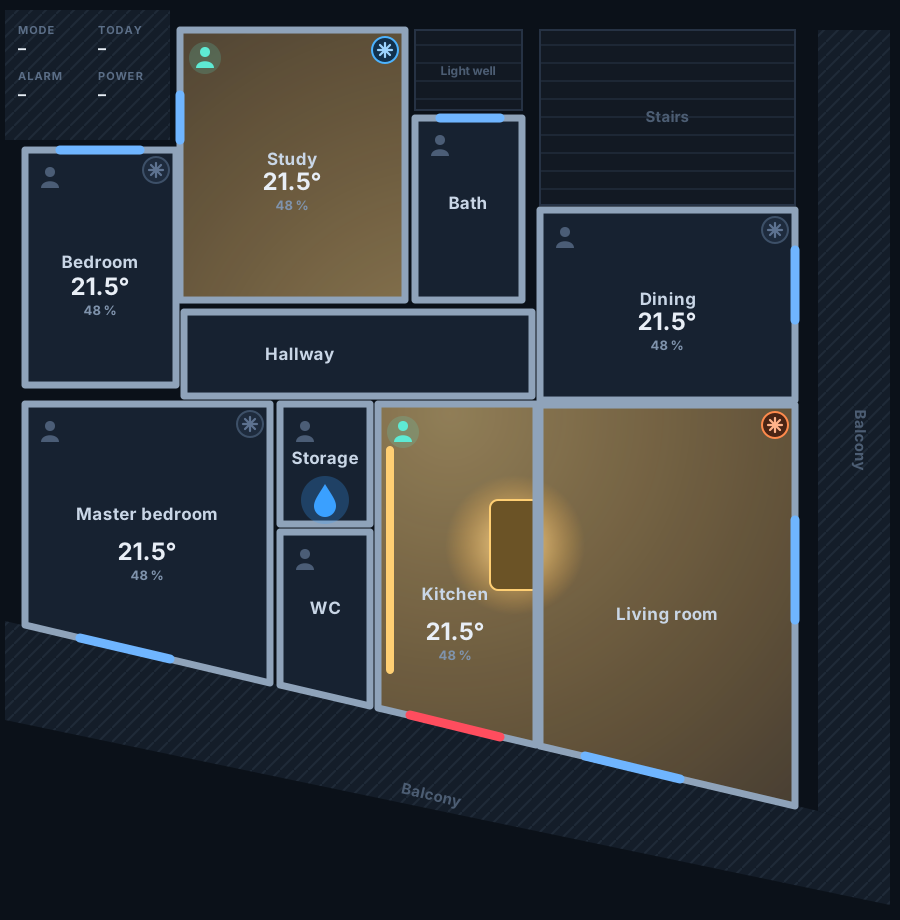
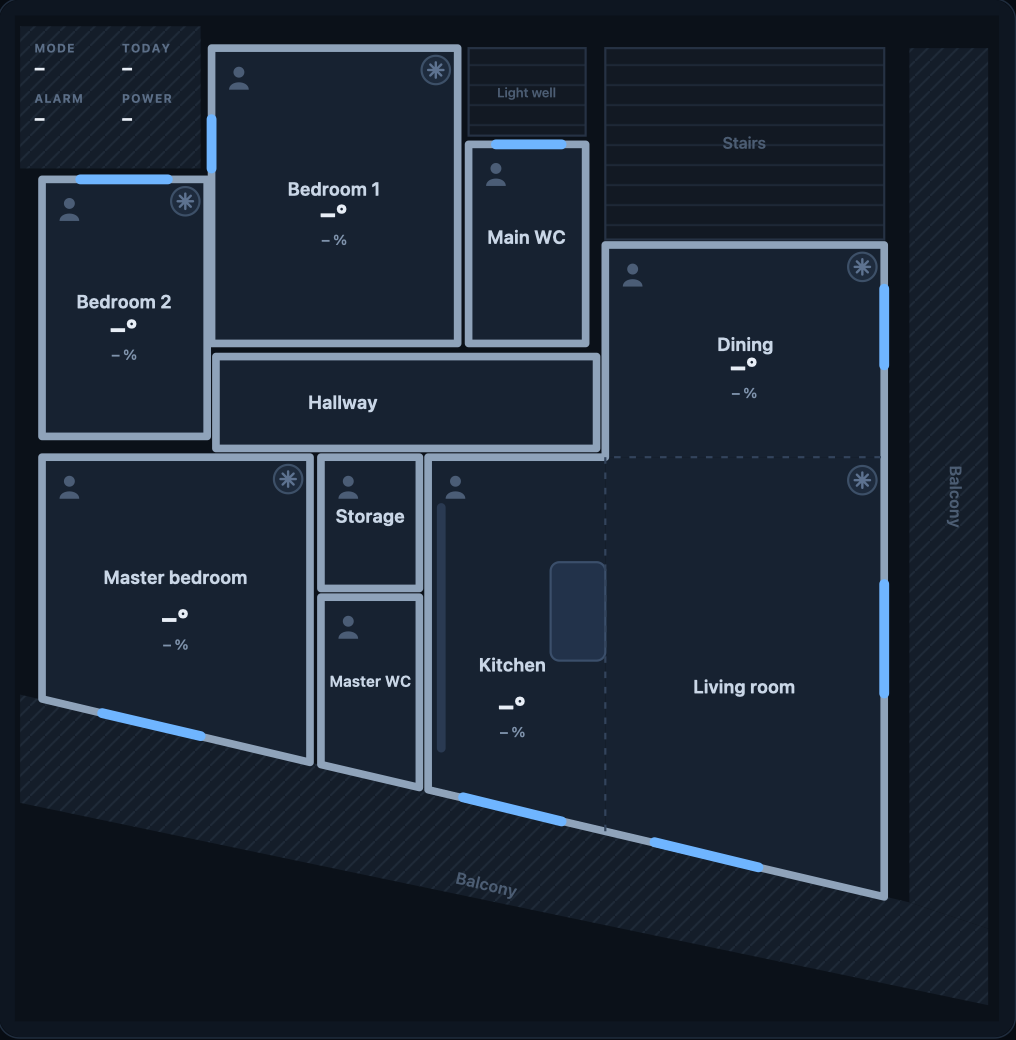
Room names, master WC, refreshed floor plan
Bedrooms use generic names (Bedroom 1 / Bedroom 2) in the public config.
preview.html now declares UTF-8 so it renders correctly when opened locally.
Re-applies the window snapshot restore, living-room group area and
alarm-triggered message fixes.

diff --git a/docs/preview.html b/docs/preview.html
@@ -1,3 +1,6 @@
+<!doctype html>
+<meta charset="utf-8">
+<meta name="viewport" content="width=device-width, initial-scale=1">
 <title>Smart Apartment Plan</title>
 <meta name="claude:viewport-fit-sides" content="cover">
 <link rel="preconnect" href="https://fonts.googleapis.com">
@@ -54,6 +57,7 @@ input[type=checkbox]{width:18px;height:18px;accent-color:var(--teal)}
 #apartment .wall { fill: none; stroke: #8fa3ba; stroke-width: 7; stroke-linejoin: round; }
 #apartment .zone { fill: none; stroke: #33445c; stroke-width: 2; stroke-dasharray: 6 8; }
 #apartment .label { fill: #c9d6e6; font-size: 17px; font-weight: 600; letter-spacing: .3px; }
+#apartment .label.narrow { font-size: 14px; }
 #apartment .label.dim, #apartment .muted { fill: #4c5d73; font-size: 15px; font-weight: 600; }
 #apartment .small { font-size: 12px; }
 
@@ -188,13 +192,13 @@ input[type=checkbox]{width:18px;height:18px;accent-color:var(--teal)}
   <polyline class="zone" points="540,746 540,404 795,404"/>
 </g>
 <g id="labels" pointer-events="none">
-  <text class="label" x="292" y="165" text-anchor="middle">Study</text>
-  <text class="label" x="100" y="268" text-anchor="middle">Bedroom</text>
-  <text class="label" x="468" y="209" text-anchor="middle">Bath</text>
+  <text class="label" x="292" y="165" text-anchor="middle">Bedroom 1</text>
+  <text class="label" x="100" y="268" text-anchor="middle">Bedroom 2</text>
+  <text class="label" x="468" y="209" text-anchor="middle">Main WC</text>
   <text class="label" x="300" y="360" text-anchor="middle">Hallway</text>
   <text class="label" x="147" y="520" text-anchor="middle">Master bedroom</text>
   <text class="label" x="325" y="464" text-anchor="middle">Storage</text>
-  <text class="label" x="325" y="614" text-anchor="middle">WC</text>
+  <text class="label narrow" x="325" y="614" text-anchor="middle">Master WC</text>
   <text class="label" x="455" y="600" text-anchor="middle">Kitchen</text>
   <text class="label" x="668" y="307" text-anchor="middle">Dining</text>
   <text class="label" x="667" y="620" text-anchor="middle">Living room</text>
@@ -268,11 +272,11 @@ input[type=checkbox]{width:18px;height:18px;accent-color:var(--teal)}
         <select id="walk" aria-label="Room">
           <option value="kitchen">Kitchen / living</option>
           <option value="dining">Dining (front door)</option>
-          <option value="study_bedroom">Study</option>
-          <option value="small_bedroom">Bedroom</option>
+          <option value="study_bedroom">Bedroom 1</option>
+          <option value="small_bedroom">Bedroom 2</option>
           <option value="double_bedroom">Master bedroom</option>
-          <option value="bathroom">Bath</option>
-          <option value="wc">WC</option>
+          <option value="bathroom">Main WC</option>
+          <option value="wc">Master WC</option>
           <option value="storage">Storage</option>
         </select>
         <button type="button" id="go">Walk in</button>
@@ -305,6 +309,8 @@ input[type=checkbox]{width:18px;height:18px;accent-color:var(--teal)}
   const isOn = (id) => /light-on/.test(byId(id).getAttribute('class'));
   const light = (id, on) => setClass(id, /light-(on|off)/, on ? 'light-on' : 'light-off');
   const log = (html) => { $('#log').innerHTML = html; };
+  const NM = {study_bedroom:"Bedroom 1", small_bedroom:"Bedroom 2", double_bedroom:'Master bedroom', bathroom:'Main WC', wc:'Master WC', kitchen_dining:'Kitchen / dining', living_room:'Living room'};
+  const nm = (k) => NM[k] || k.replace(/_/g,' ');
 
   // Example readings
   const temps = {study_bedroom:[21.4,46], small_bedroom:[20.6,51], double_bedroom:[20.9,49], kitchen:[22.3,44], dining:[21.8,45]};
@@ -322,7 +328,7 @@ input[type=checkbox]{width:18px;height:18px;accent-color:var(--teal)}
   // Tap a room / lamp to toggle
   document.querySelectorAll('#apartment .light').forEach(g => {
     g.setAttribute('tabindex','0'); g.setAttribute('role','button');
-    g.setAttribute('aria-label', g.id.replace('light.','').replace(/_/g,' '));
+    g.setAttribute('aria-label', nm(g.id.replace('light.','').replace('_ceiling','')));
     const t = () => { const on = !isOn(g.id); light(g.id, on); log('<b>'+g.getAttribute('aria-label')+'</b> '+(on?'on':'off')+'.'); };
     g.addEventListener('click', t);
     g.addEventListener('keydown', e => { if (e.key==='Enter'||e.key===' ') { e.preventDefault(); t(); } });
@@ -334,7 +340,7 @@ input[type=checkbox]{width:18px;height:18px;accent-color:var(--teal)}
       const cur = (g.getAttribute('class').match(/climate-(\w+)/)||[])[1] || 'off';
       const next = modes[(modes.indexOf(cur)+1) % modes.length];
       setClass(g.id, /climate-\w+/, 'climate-'+next);
-      log('<b>'+g.id.replace('climate.','').replace(/_/g,' ')+'</b> A/C: '+next+'.');
+      log('<b>'+nm(g.id.replace('climate.',''))+'</b> A/C: '+next+'.');
     });
   });
 
@@ -345,7 +351,7 @@ input[type=checkbox]{width:18px;height:18px;accent-color:var(--teal)}
   $('#go').addEventListener('click', () => {
     const r = $('#walk').value, pid = 'binary_sensor.'+r+'_presence', mode = status['input_select.house_mode'];
     setClass(pid, /presence-(on|off)/, 'presence-on');
-    let msg = 'Presence in <b>'+r.replace(/_/g,' ')+'</b>. ';
+    let msg = 'Presence in <b>'+nm(r)+'</b>. ';
     if (mode === 'Away' || mode === 'Vacation') msg += 'Nobody should be home: in Away the alarm would trigger.';
     else if (mode === 'Night' && /bedroom/.test(r)) msg += 'Night mode: bedroom light stays off.';
     else if (mode === 'Night' && r === 'kitchen') { light('light.kitchen_counter_led', true); msg += 'Night mode: only the counter LED.'; }
@@ -357,7 +363,7 @@ input[type=checkbox]{width:18px;height:18px;accent-color:var(--teal)}
       setClass(pid, /presence-(on|off)/, 'presence-off'); light(roomLight[r], false);
       if (r === 'kitchen') light('light.kitchen_counter_led', false);
       if (r === 'bathroom' || r === 'wc') light('light.hallway', false);
-      log('<b>'+r.replace(/_/g,' ')+'</b> empty, light off.');
+      log('<b>'+nm(r)+'</b> empty, light off.');
     }, 8000);
   });
 

diff --git a/www/floorplan/apartment.css b/www/floorplan/apartment.css
@@ -9,6 +9,7 @@
 #apartment .wall { fill: none; stroke: #8fa3ba; stroke-width: 7; stroke-linejoin: round; }
 #apartment .zone { fill: none; stroke: #33445c; stroke-width: 2; stroke-dasharray: 6 8; }
 #apartment .label { fill: #c9d6e6; font-size: 17px; font-weight: 600; letter-spacing: .3px; }
+#apartment .label.narrow { font-size: 14px; }
 #apartment .label.dim, #apartment .muted { fill: #4c5d73; font-size: 15px; font-weight: 600; }
 #apartment .small { font-size: 12px; }
 

diff --git a/docs/devices.md b/docs/devices.md
@@ -28,17 +28,18 @@ the mesh gets stronger with every room.
 ## Areas
 
 Create these areas on one floor with the ID `apartment`, and assign every
-device to its room. Automations use area targets, so a sensor or light added
+device to its room. Area and entity IDs stay generic so the config is reusable;
+the room names below are what Home Assistant and the dashboard show. Automations use area targets, so a sensor or light added
 later is picked up without editing any YAML.
 
 | Area ID | Room (drawing 9γ) |
 |---|---|
-| `study_bedroom` | Υ/Δ πρώην κουζίνα: single bed + desk |
-| `small_bedroom` | Υ/Δ μικρό |
-| `double_bedroom` | Υ/Δ δίκλινο |
+| `study_bedroom` | Bedroom 1 (Υ/Δ πρώην κουζίνα): single bed + desk |
+| `small_bedroom` | Bedroom 2 (Υ/Δ μικρό) |
+| `double_bedroom` | Master bedroom (Υ/Δ δίκλινο) |
 | `hallway` | Διάδρομος |
-| `bathroom` | Λουτρό |
-| `wc` | WC |
+| `bathroom` | Main WC (Λουτρό) |
+| `wc` | Master WC, en-suite to the master bedroom |
 | `storage` | Αποθήκη |
 | `living_room` | Ενιαίος χώρος: καθιστικό, κουζίνα, τραπεζαρία |
 | `balcony_east` | Ανατολικός εξώστης |
